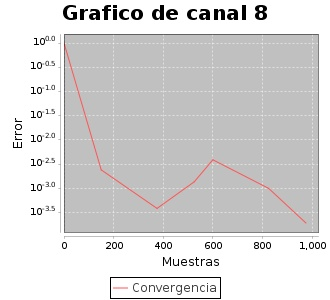
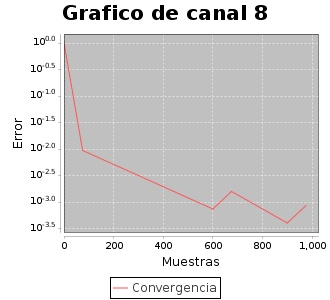
correccion grafico 2

diff --git a/src/ejercicio4/Grafico.java b/src/ejercicio4/Grafico.java
@@ -1,10 +1,11 @@
 package ejercicio4;
 
+import org.jfree.chart.axis.NumberAxis;
 import org.jfree.chart.ChartFactory;
 import org.jfree.chart.ChartUtilities;
 import org.jfree.chart.JFreeChart;
 import org.jfree.chart.axis.LogAxis;
-import org.jfree.chart.axis.NumberAxis;
+import org.jfree.chart.axis.LogarithmicAxis;
 import org.jfree.chart.plot.PlotOrientation;
 import org.jfree.chart.plot.ValueMarker;
 import org.jfree.chart.plot.XYPlot;
@@ -23,24 +24,41 @@ import java.io.IOException;
 import java.util.ArrayList;
 
 public class Grafico extends ApplicationFrame {
-    public Grafico(String nombre , String titulo, ArrayList<Double> muestra ,double epsilon) {
+    public Grafico(String nombre , ArrayList<Double> muestra ) {
         super(nombre);
-        LogAxis yAxis = new LogAxis("");
-        yAxis.setBase(10);
-        LogFormat format = new LogFormat(yAxis.getBase(), "", "", true);
-        yAxis.setNumberFormatOverride(format);
-        XYPlot plot = new XYPlot(
-                new XYSeriesCollection(createDataset(muestra, epsilon)),
-                new NumberAxis(),
-                yAxis,
-                new XYLineAndShapeRenderer(true, false));
-        JFreeChart lineChart = new JFreeChart("", JFreeChart.DEFAULT_TITLE_FONT, plot, false);
+
+
+
+
+
+
+
+
+        final JFreeChart lineChart = ChartFactory.createXYLineChart(
+                nombre,          // chart title
+                "Category",               // domain axis label
+                "Value",                  // range axis label
+                createDataset(muestra),                  // data
+                PlotOrientation.VERTICAL,
+                true,                     // include legend
+                true,
+                false
+        );
+
+
+
+        final XYPlot plot = lineChart.getXYPlot();
+        final NumberAxis domainAxis = new NumberAxis("Muestras");
+        final LogAxis rangeAxis = new LogAxis("Error");
+        plot.setDomainAxis(domainAxis);
+        plot.setRangeAxis(rangeAxis);
+
 
         String carpetaCreada="ImagenesGraficos";
         File carpeta=new File(carpetaCreada);
         carpeta.mkdirs();
-        int width = 1300;
-        int height = 760;
+        int width = 330;
+        int height = 300;
 
 
 
@@ -52,13 +70,14 @@ public class Grafico extends ApplicationFrame {
         }
     }
 
-    private XYSeries createDataset(ArrayList<Double>muestra,double epsilon) {
+    private XYSeriesCollection createDataset(ArrayList<Double>muestra) {
         XYSeries datasetConvergencia = new XYSeries("Convergencia");
         for (int i=0;i<muestra.size();i++){
-            datasetConvergencia.add(i,(double)muestra.get(i));
+            if((i%75==0)&&(muestra.get(i)>1e-4))
+                datasetConvergencia.add(i,(double)muestra.get(i));
         }
         XYSeriesCollection dataset=new XYSeriesCollection();
-
-        return datasetConvergencia;
+        dataset.addSeries(datasetConvergencia);
+        return dataset;
     }
 }

diff --git a/src/ejercicio4/Ej4.java b/src/ejercicio4/Ej4.java
@@ -46,11 +46,13 @@ public class Ej4 {
 
         System.out.println("\nRuido del canal 2: "+c2.getRuido(1e-4));
         System.out.println("Ruido analitico del canal 2: " + c2.getRuidoAnalitico());
-        c2.generarGrafico("Grafico de canal 2","Canal 2");
+        c2.generarGrafico("Grafico de canal 2");
         System.out.println("Ruido del canal 8: "+c8.getRuido(1e-4));
         System.out.println("Ruido analitico del canal 8: " + c8.getRuidoAnalitico());
+        c8.generarGrafico("Grafico de canal 8");
         System.out.println("Ruido del canal 10: "+c10.getRuido(1e-4));
         System.out.println("Ruido analitico del canal 10: " + c10.getRuidoAnalitico());
+        c10.generarGrafico("Grafico de canal 10");
 
 
 

diff --git a/src/ejercicio4/Canal.java b/src/ejercicio4/Canal.java
@@ -9,7 +9,7 @@ import java.util.ArrayList;
 
 public class Canal {
 
-    static final double MINVALORMUESTRAS=100;
+    static final double MINVALORMUESTRAS=1000;
     private double epsilon = 1e-4;
     private int tamanioX;
     private int tamanioY;
@@ -182,8 +182,8 @@ public class Canal {
         return ((Math.abs(actual-anterior)) <epsilon);
     }
 
-    public void generarGrafico(String nombre,String titulo){
-        Grafico grafico=new Grafico(nombre,titulo,this.muestraGrafico,epsilon);
+    public void generarGrafico(String nombre){
+        Grafico grafico=new Grafico(nombre,this.muestraGrafico);
     }
 
 }
